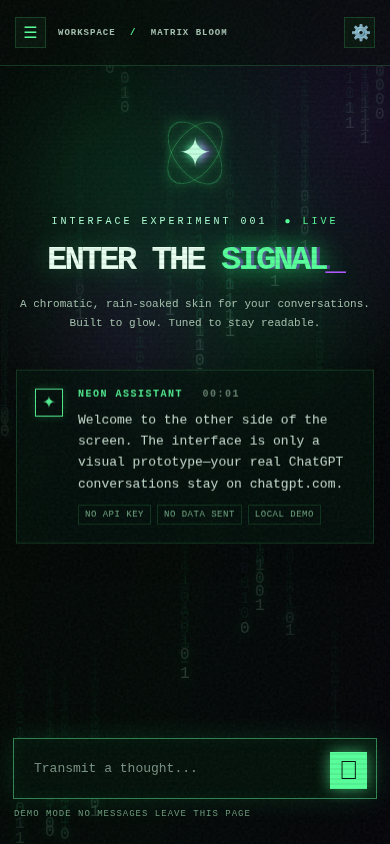
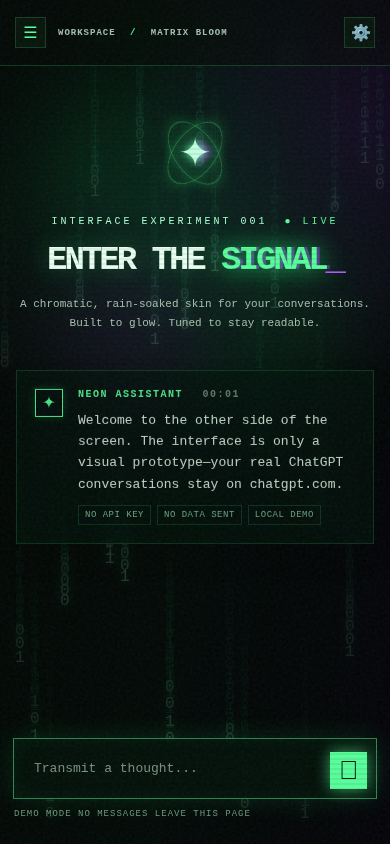
Personalize preview for BigBoss

diff --git a/index.html b/index.html
@@ -4,7 +4,7 @@
   <meta charset="utf-8">
   <meta name="viewport" content="width=device-width, initial-scale=1">
   <meta name="theme-color" content="#050907">
-  <title>NEON//CHAT — Matrix Bloom</title>
+  <title>NEON//CHAT — BigBoss Matrix Bloom</title>
   <link rel="stylesheet" href="styles.css">
 </head>
 <body>
@@ -20,7 +20,7 @@
       <button class="nav-item active" type="button"><span class="nav-icon">◈</span> Matrix Bloom <span class="nav-dot"></span></button>
       <button class="nav-item" type="button"><span class="nav-icon">⌁</span> Dream Archive</button>
       <button class="nav-item" type="button"><span class="nav-icon">▦</span> Pixel Experiments</button>
-      <div class="sidebar-bottom"><span class="live-dot"></span> SYSTEM ONLINE <span class="version">V 0.1</span></div>
+      <div class="sidebar-bottom"><span class="live-dot"></span> BIGBOSS ONLINE <span class="version">V 0.1</span></div>
     </aside>
 
     <main class="main">

diff --git a/app.js b/app.js
@@ -92,7 +92,7 @@ form.addEventListener('submit', e => {
   body.className = 'message-body';
   const meta = document.createElement('div');
   meta.className = 'message-meta';
-  meta.textContent = 'YOU · LOCAL PREVIEW';
+  meta.textContent = 'BIGBOSS · LOCAL PREVIEW';
   const p = document.createElement('p');
   p.textContent = value;
   body.append(meta, p);
